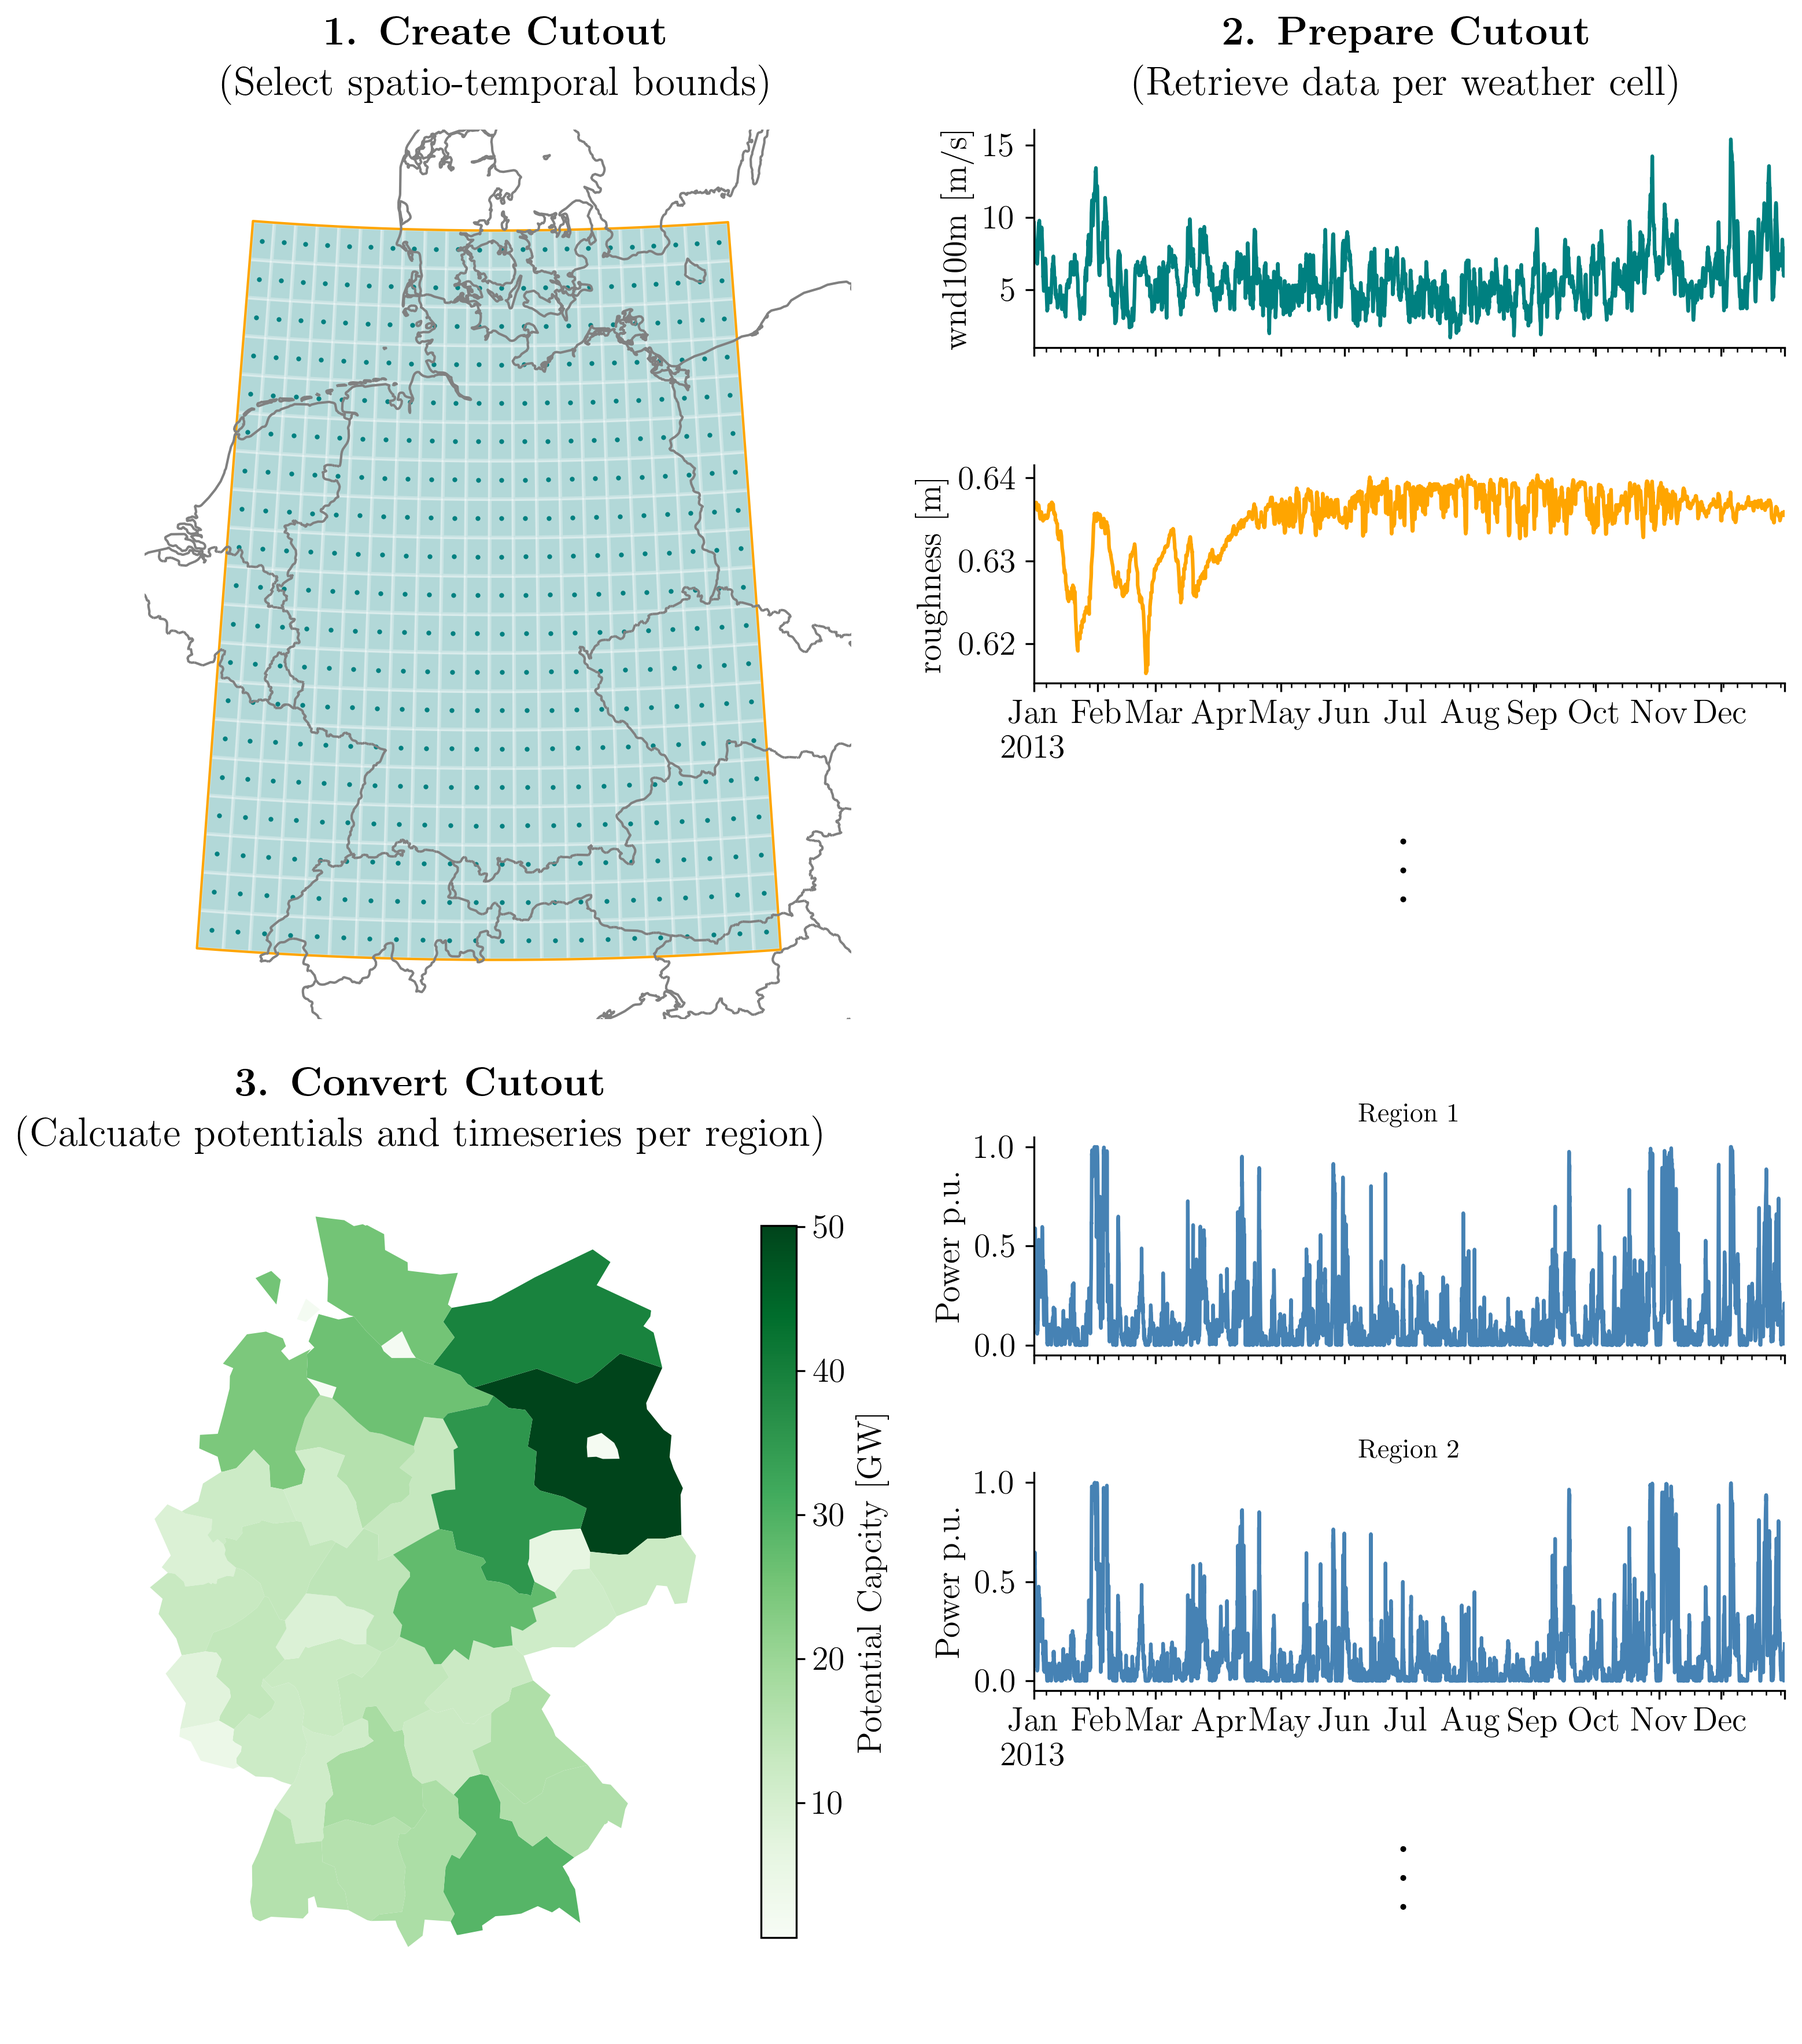
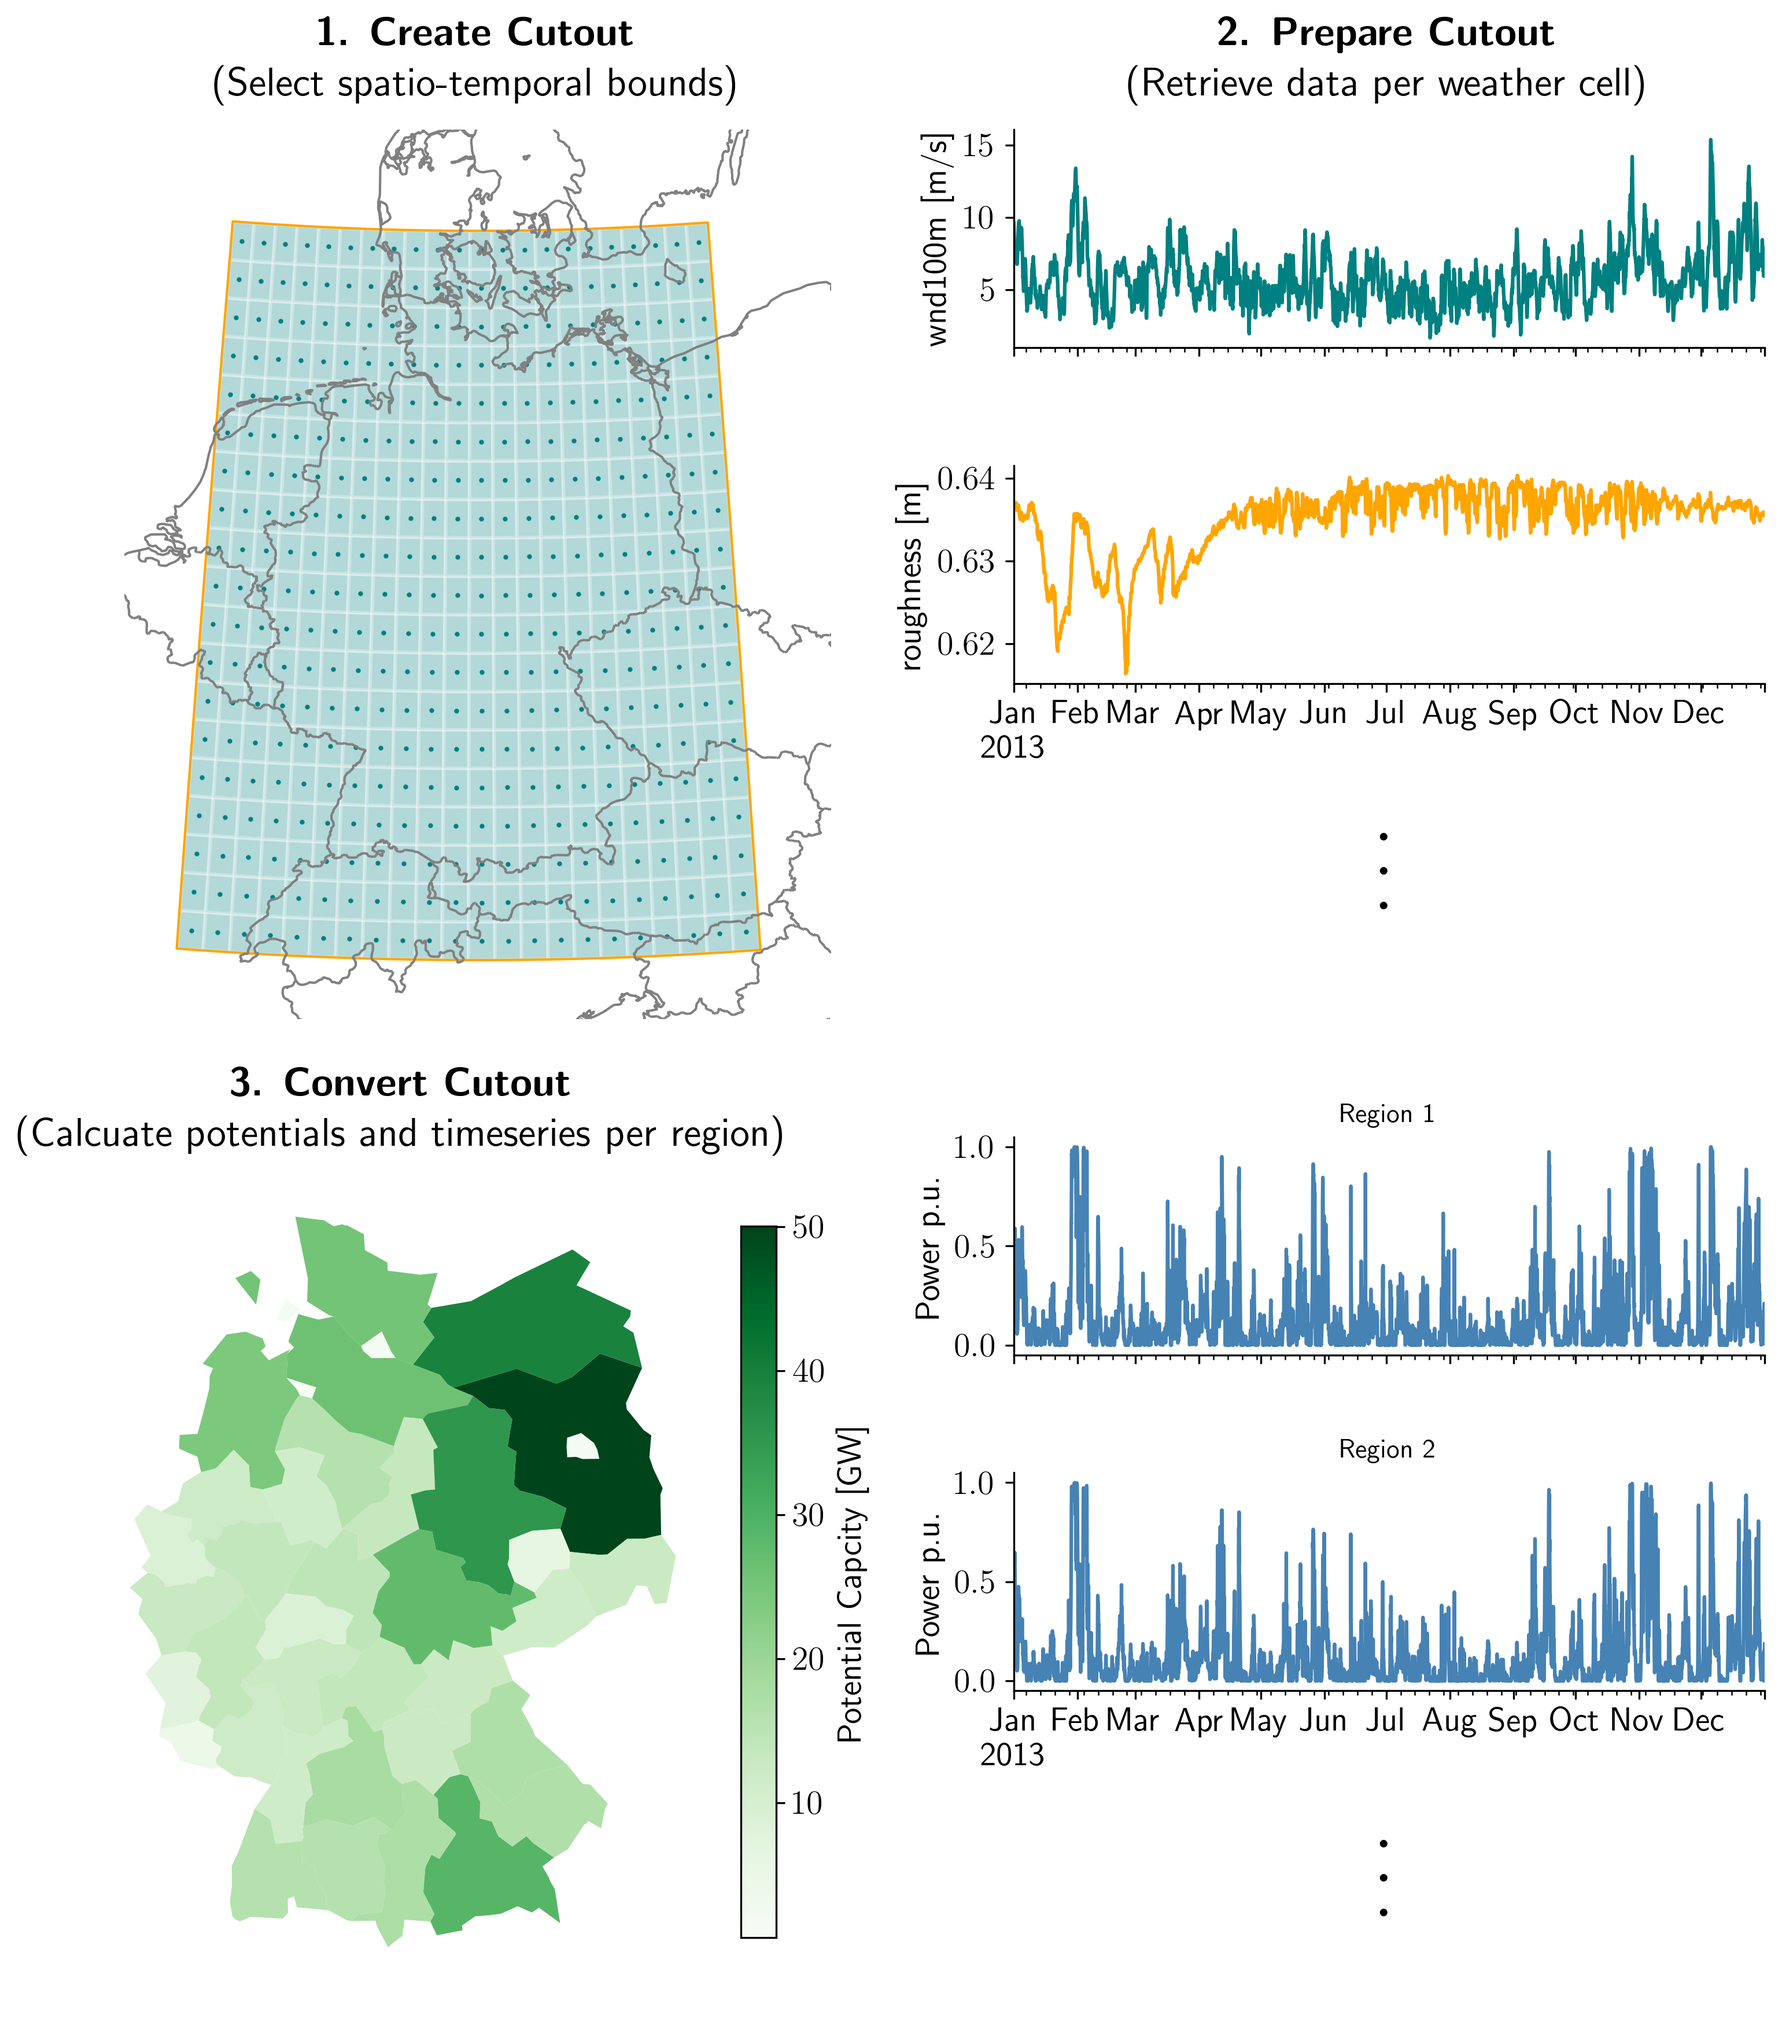
add plots for land-use calculation

diff --git a/paper/scripts/land-use.py b/paper/scripts/land-use.py
@@ -1,0 +1,71 @@
+#!/usr/bin/env python3
+# -*- coding: utf-8 -*-
+"""
+Created on Sun Apr 11 20:16:02 2021
+
+@author: fabian
+"""
+import atlite
+import geopandas as gpd
+import matplotlib.pyplot as plt
+import cartopy
+import cartopy.crs as ccrs
+import pandas as pd
+from rasterio.plot import show
+from pathlib import Path
+
+plt.rc('text', usetex=True)
+plt.rc('text.latex',
+       preamble=r"\setlength{\parindent}{0pt} \setlength{\parskip}{\baselineskip}")
+plt.rc('font', family='sans-serif', size=14)
+figpath = Path('../figures/')
+
+
+cutout = atlite.Cutout('cutout')
+
+nutsregions = gpd.read_file('NUTS_RG_60M_2021_4326.geojson')
+regions = nutsregions.query('CNTR_CODE == "DE" and LEVL_CODE == 2')
+regions = regions.rename_axis('region')
+de = gpd.GeoSeries([regions.unary_union], index=['DE'], crs=4326)
+
+# %%
+
+# inspect corine tags
+# df = pd.read_html('https://wiki.openstreetmap.org/wiki/Corine_Land_Cover#Tagging')[0]
+# tags = df[df.Code.apply(len) > 3].reset_index(drop=True).rename(lambda x: x+1)
+corine = 'g250_clc06_V18_5.tif'
+codes =  [12, 13, 14, 15, 16, 17, 18, 19, 20, 21, 26, 27, 28, 29, 31, 32]
+
+excluder = atlite.ExclusionContainer()
+excluder.add_raster(corine, codes, invert=True, crs=3035)
+
+
+masked, transform = atlite.gis.shape_availability(de.to_crs(excluder.crs), excluder)
+
+projection = ccrs.epsg(excluder.crs)
+fig, ax = plt.subplots(subplot_kw={'projection': projection})
+show(masked, cmap='Greens',  transform=transform, ax=ax)
+ax.add_feature(cartopy.feature.BORDERS.with_scale('10m'), linewidth=.5)
+ax.add_feature(cartopy.feature.COASTLINE.with_scale('10m'), linewidth=.5)
+ax.axis('off')
+fig.savefig(figpath/'availabile-land.png', bbox_inches='tight')
+
+# %%
+
+excluder = atlite.ExclusionContainer()
+excluder.add_raster(corine, codes, invert=True, crs=3035)
+A = cutout.availabilitymatrix(regions, excluder, nprocesses=3, disable_progressbar=True)
+
+first_regions = regions.index[:2]
+title = 'Effective overlap per weather cell'
+fg = A.sel(region=first_regions).plot(row='region', col_wrap=1, cmap='Greens',
+                                      cbar_kwargs={'label': title, 'aspect':40})
+for i, ax in enumerate(fg.axes.flatten()):
+    regions.plot(ax=ax, edgecolor='k', color='None', linewidth=0.2)
+    regions.iloc[[i]].plot(ax=ax, edgecolor='k', color='None')
+    ax.set_title(f'Region {i+1}')
+    ax.axis('off')
+
+ax.text(x=11, y=44, s=r'$\cdot$ \\$\cdot$ \\ $\cdot$', ha='center', fontsize=25)
+
+fg.fig.savefig(figpath/'availability-matrix.png', bbox_inches='tight')

diff --git a/paper/scripts/cutout-figures.py b/paper/scripts/cutout-figures.py
@@ -20,7 +20,7 @@ from matplotlib.gridspec import GridSpec
 plt.rc('text', usetex=True)
 plt.rc('text.latex',
        preamble=r"\setlength{\parindent}{0pt} \setlength{\parskip}{\baselineskip}")
-plt.rc('font', family='serif', size=14)
+plt.rc('font', family='sans-serif', size=14)
 figpath = Path('../figures/')
 figpath.mkdir(exist_ok=True)
 
@@ -79,7 +79,7 @@ ax.set_xlabel('')
 
 
 ax = fig.add_subplot(gs[2, 3:])
-ax.text(x=.5, y=.8, s=r'\noindent .\\ . \\ .', ha='center', fontsize=30)
+ax.text(x=.5, y=.8, s=r'$\cdot$ \\$\cdot$ \\ $\cdot$', ha='center', fontsize=30)
 ax.axis('off')
 
 
@@ -120,7 +120,7 @@ ax.set_ylabel('Power p.u.')
 ax.set_xlabel('')
 
 ax = fig.add_subplot(gs[5, 3:])
-ax.text(x=.5, y=.8, s=r'\noindent .\\ . \\ .', ha='center', fontsize=30)
+ax.text(x=.5, y=.8, s=r'$\cdot$ \\$\cdot$ \\ $\cdot$', ha='center', fontsize=30)
 ax.axis('off')
 
 

diff --git a/paper/paper.md b/paper/paper.md
@@ -87,11 +87,11 @@ When initializing a Cutout, the grid cells and the coordinate system on which th
 `Atlite` groups weather variables into *features*, which can be used as front-end keys for retrieving a subset of the available weather variables. The following table shows the variable groups for all datasets.
 
 
-|   feature   |                    ERA5 variables                    |        SARAH-2 variables         | GEBCO variables |
+|   feature   |                    ERA5 <br/> variables                    |        SARAH-2<br/> variables         | GEBCO variables |
 | :---------- | :--------------------------------------------------- | :------------------------------- | :-------------- |
 | height      | height                                               |                                  | height          |
 | wind        | wnd100m, roughness                                   |                                  |                 |
-| influx      | influx\_toa, influx\_direct, influx\_diffuse, albedo | influx\_direct,  influx\_diffuse |                 |
+| influx      | influx\_toa, influx\_direct,<br/>influx\_diffuse, albedo | influx\_direct,  influx\_diffuse |                 |
 | temperature | temperature, soil temperature                        |                                  |                 |
 | runoff      | runoff                                               |                                  |                 |
 
@@ -149,7 +149,10 @@ In the real world, renewable infrastructure is often limited by land-use restric
 The implementation is inspired by the [GLAES](https://github.com/FZJ-IEK3-VSA/glaes) [@Ryberg2018]
 software package which itself is no longer maintained and incompatible with newer versions of the underlying [GDAL](https://gdal.org/index.html) software.
 
-    
+
+![Example of land-use restrictions](figures/available-land.png){height=350px }
+![Example of land-use restrictions](figures/availability-matrix.png){ height=380px  }
+
 
 
 # Related Research 
